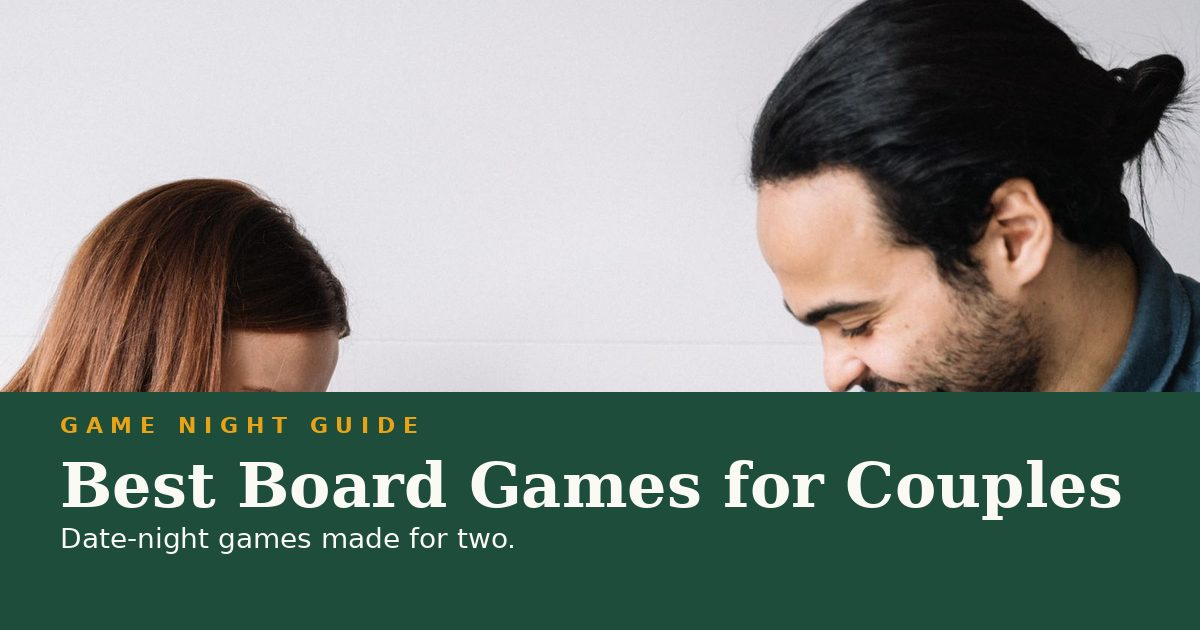
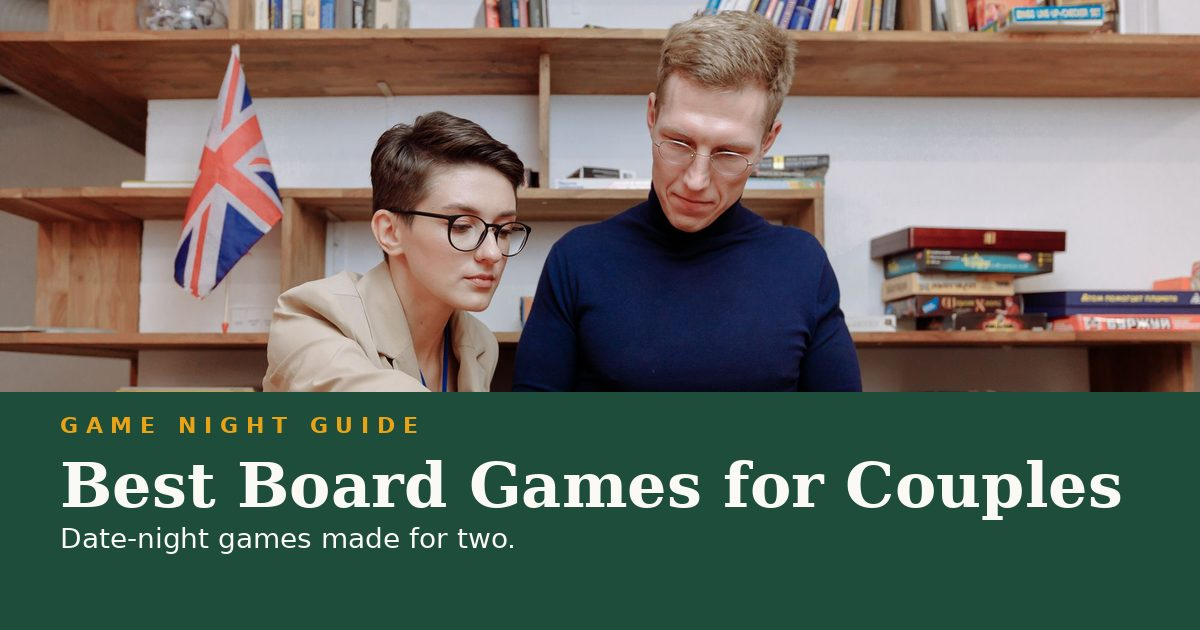
Replace couples photo: Scrabble in a library, faces and board visible at 16:9

diff --git a/index.html b/index.html
@@ -66,7 +66,7 @@
       <p class="meta">22 Nov 2026<span class="dot">Last checked 22 Nov 2026</span></p>
       <a class="read-link" href="/gamenightguide/guides/best-board-games-for-couples/">Read the guide →</a>
     </div>
-    <div class="f-img"><a href="/gamenightguide/guides/best-board-games-for-couples/"><img src="/gamenightguide/images/photos/couples.jpg" alt="A young couple playing chess together at home" width="1200" height="630" loading="eager"></a></div>
+    <div class="f-img"><a href="/gamenightguide/guides/best-board-games-for-couples/"><img src="/gamenightguide/images/photos/couples.jpg" alt="A couple playing Scrabble together at a table in a library" width="1200" height="630" loading="eager"></a></div>
   </section>
 
   <section class="controls" id="topics">
@@ -108,7 +108,7 @@
     </article>
   
     <article class="card" data-topic="Couples" data-search="Best Board Games for Couples The best board games for two people: date-night picks that are actually good with two, not games that just tolerate two players. Patchwork, Jaipur, 7 Wonders Duel and more. Couples">
-      <div class="c-img"><a href="/gamenightguide/guides/best-board-games-for-couples/"><img src="/gamenightguide/images/photos/couples-thumb.jpg" alt="A young couple playing chess together at home, Game Night Guide" width="800" height="450" loading="lazy"></a></div>
+      <div class="c-img"><a href="/gamenightguide/guides/best-board-games-for-couples/"><img src="/gamenightguide/images/photos/couples-thumb.jpg" alt="A couple playing Scrabble together at a table in a library, Game Night Guide" width="800" height="450" loading="lazy"></a></div>
       <p class="kicker">Couples</p>
       <h3><a href="/gamenightguide/guides/best-board-games-for-couples/">Best Board Games for Couples</a></h3>
       <p class="dek">The best board games for two people: date-night picks that are actually good with two, not games that just tolerate two players. Patchwork, Jaipur, 7 Wonders Duel and more.</p>

diff --git a/photo-credits/index.html b/photo-credits/index.html
@@ -46,7 +46,7 @@
 <ul>
 <li><strong>Home page hero and home OG image:</strong> friends playing a board game at a wooden table. Photo by Pavel Danilyuk, Pexels. https://www.pexels.com/photo/people-sitting-on-a-wooden-table-playing-board-game-8111356/</li>
 <li><strong>Best board games for beginners:</strong> friends laughing over a board game. Photo by Pavel Danilyuk, Pexels. https://www.pexels.com/photo/smiling-friends-playing-board-game-on-table-8111365/</li>
-<li><strong>Best board games for couples:</strong> a young couple playing chess together at home. Photo by Anna Tarazevich, Pexels. https://www.pexels.com/photo/man-and-woman-happily-enjoying-the-chess-game-5234254/</li>
+<li><strong>Best board games for couples:</strong> a man and a woman playing Scrabble together in a library. Photo by Thirdman, Pexels. https://www.pexels.com/photo/man-and-woman-playing-scrabble-inside-the-library-5649889/</li>
 <li><strong>Best board games for 2 players under $40:</strong> friends playing a board game, seen from above. Photo by cottonbro studio, Pexels. https://www.pexels.com/photo/overhead-shot-of-a-group-of-people-playing-a-board-game-6218134/</li>
 <li><strong>Best solo board games for beginners:</strong> hands setting up a board game with colourful pieces. Photo by kaboompics, Pexels. https://www.pexels.com/photo/close-up-of-mans-hands-playing-a-game-6333907/</li>
 <li><strong>Best board games under $30:</strong> hands shuffling Uno cards. Photo by Edgar Colomba, Pexels. https://www.pexels.com/photo/person-shuffling-uno-cards-3986042/</li>

diff --git a/guides/index.html b/guides/index.html
@@ -65,7 +65,7 @@
   </article>
 
   <article class="card">
-    <div class="c-img"><a href="/gamenightguide/guides/best-board-games-for-couples/"><img src="/gamenightguide/images/photos/couples-thumb.jpg" alt="A young couple playing chess together at home, Game Night Guide" width="800" height="450" loading="lazy"></a></div>
+    <div class="c-img"><a href="/gamenightguide/guides/best-board-games-for-couples/"><img src="/gamenightguide/images/photos/couples-thumb.jpg" alt="A couple playing Scrabble together at a table in a library, Game Night Guide" width="800" height="450" loading="lazy"></a></div>
     <p class="kicker">Couples</p>
     <h3><a href="/gamenightguide/guides/best-board-games-for-couples/">Best Board Games for Couples</a></h3>
     <p class="dek">The best board games for two people: date-night picks that are actually good with two, not games that just tolerate two players. Patchwork, Jaipur, 7 Wonders Duel and more.</p>

diff --git a/guides/best-board-games-for-couples/index.html b/guides/best-board-games-for-couples/index.html
@@ -81,7 +81,7 @@
   </div>
   
   <figure class="art-hero">
-    <img src="/gamenightguide/images/photos/couples.jpg" alt="A young couple playing chess together at home, Game Night Guide" width="1200" height="630" loading="eager">
+    <img src="/gamenightguide/images/photos/couples.jpg" alt="A couple playing Scrabble together at a table in a library, Game Night Guide" width="1200" height="630" loading="eager">
     <figcaption>Photo: see <a href="/gamenightguide/photo-credits/">photo credits</a>.</figcaption>
   </figure>
   
